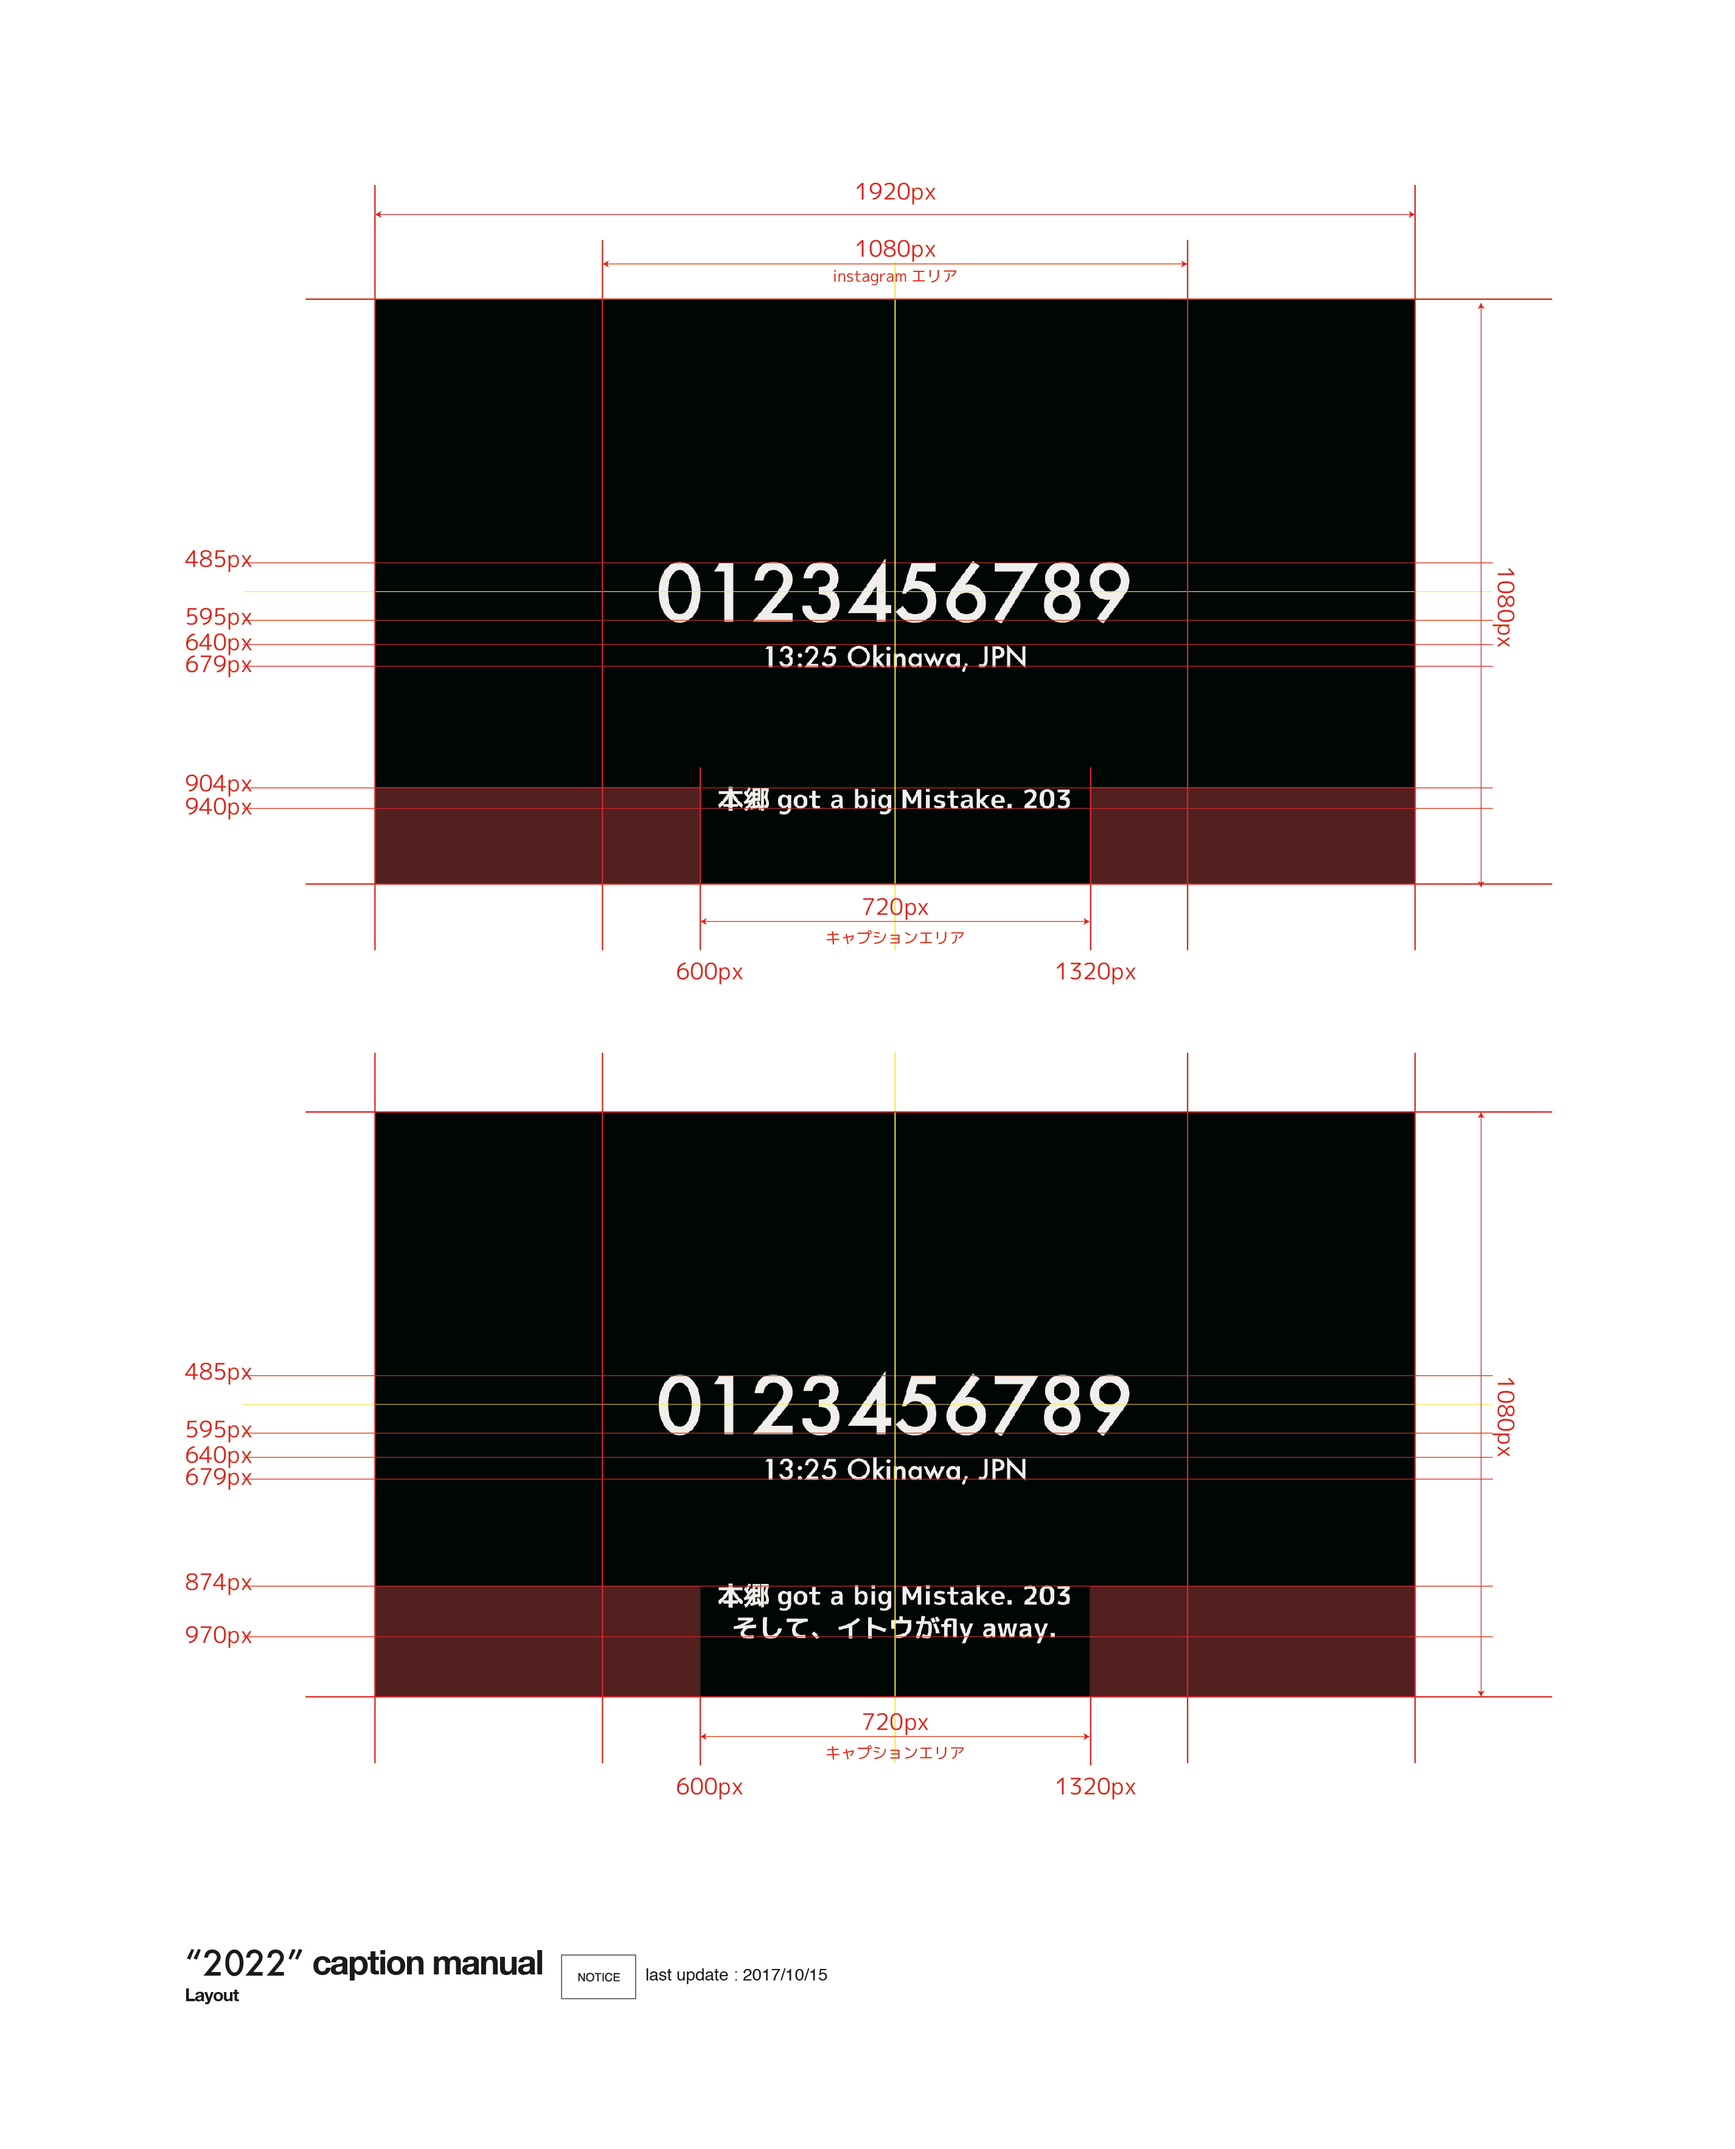
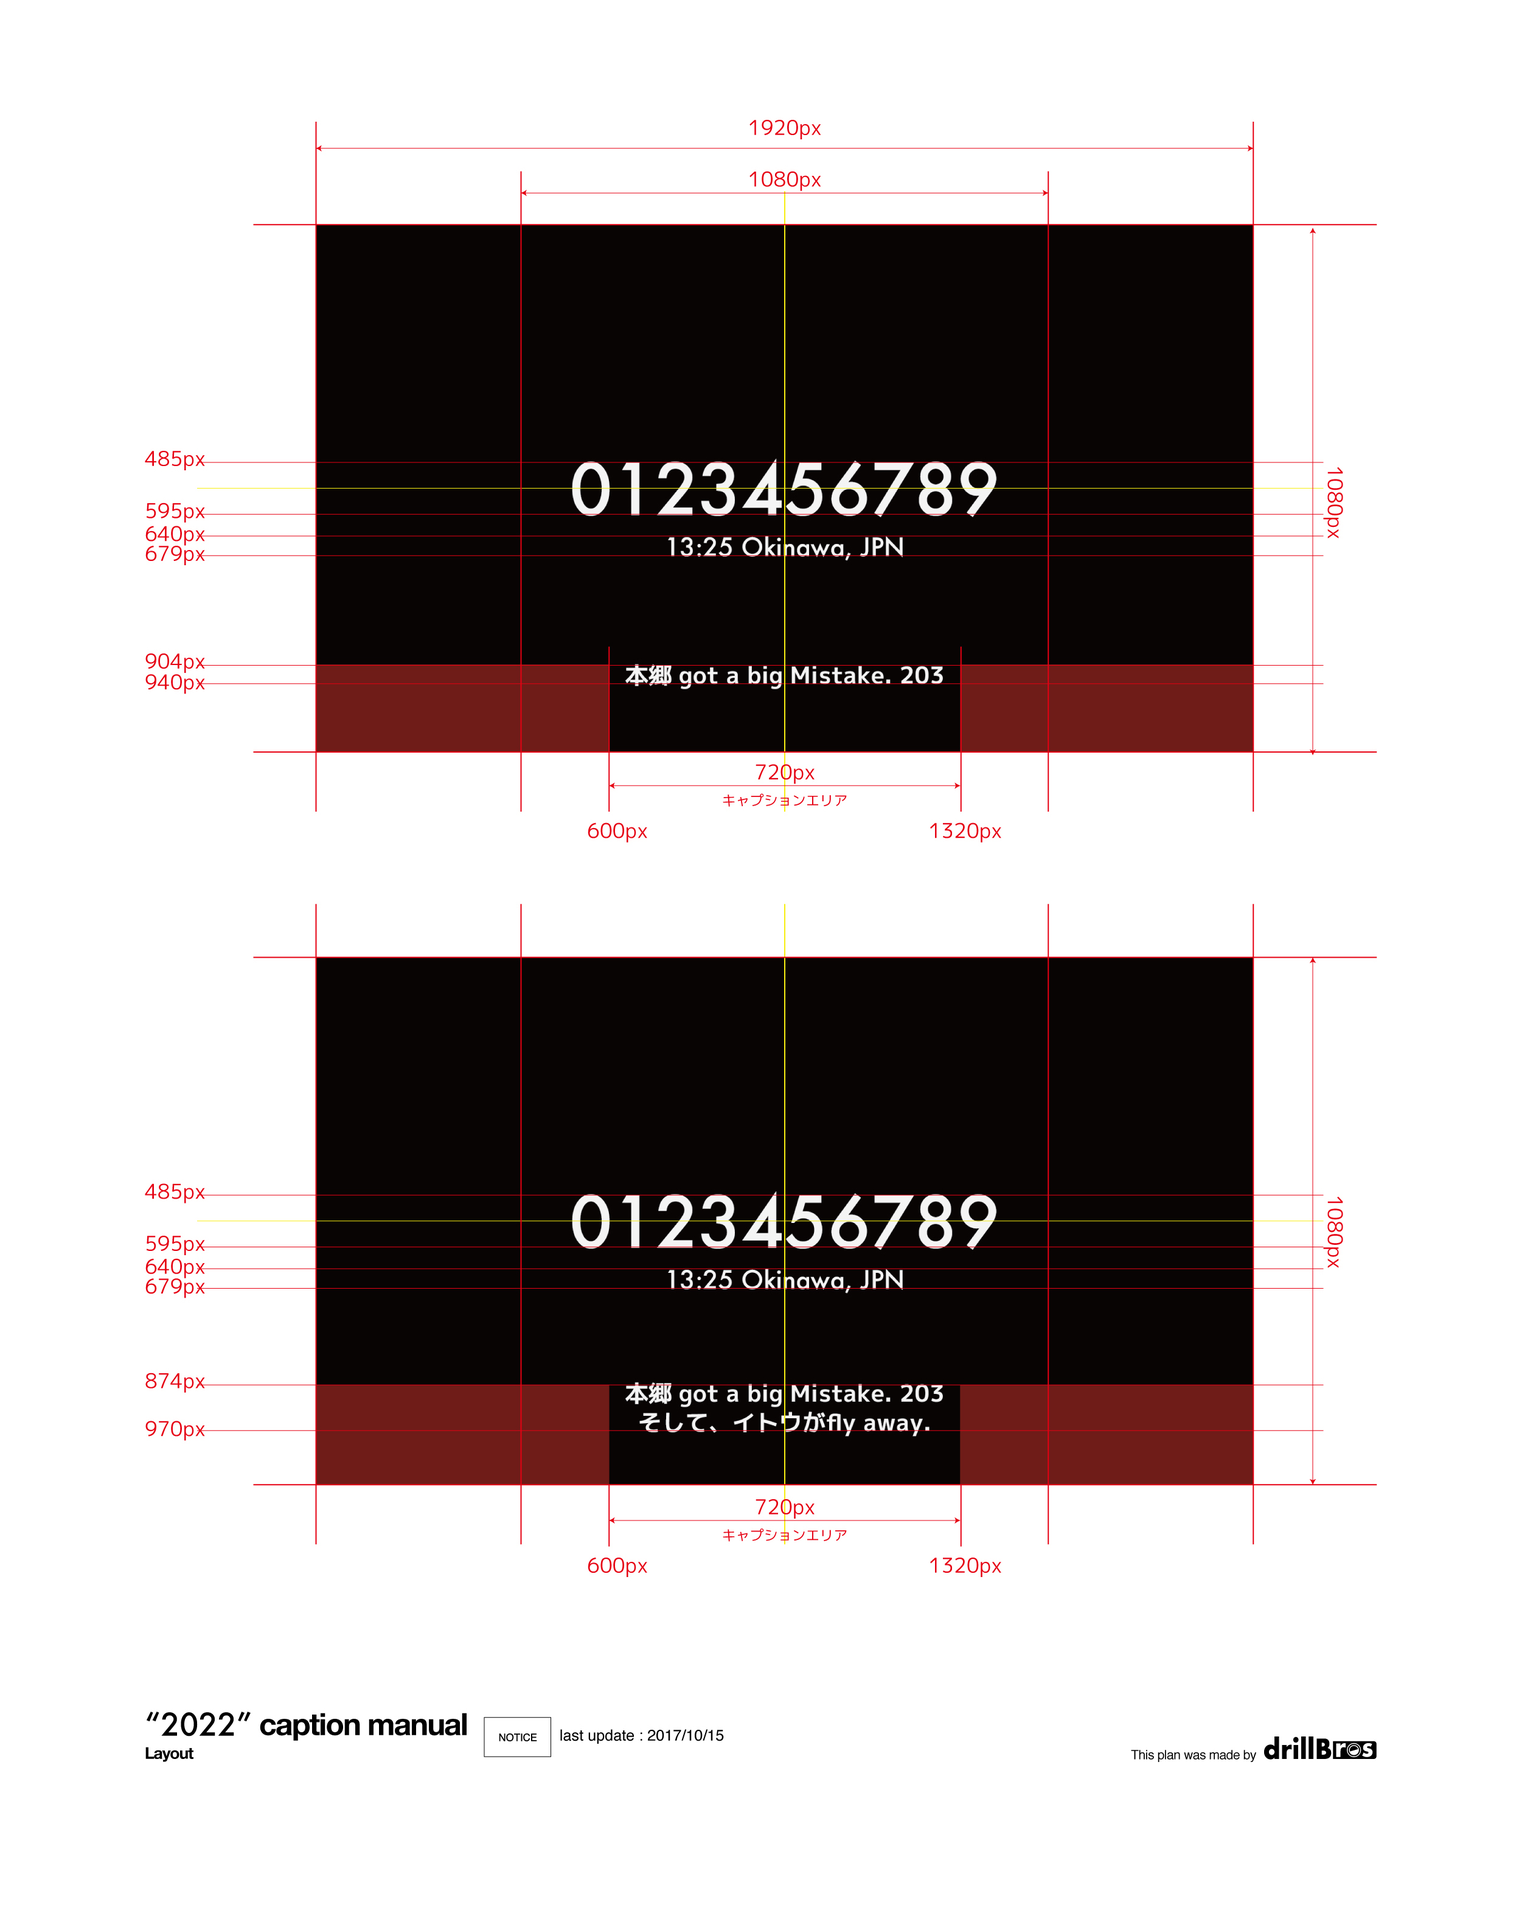
add images

diff --git a/caption_manual.md b/caption_manual.md
@@ -5,7 +5,7 @@ Drillbros(Takashi HONGO, Yuya ITO)
 
 ## キャプションを付加する映像
 * 映像フォーマット：1920x1080 60fps
-* 再生時間：13秒以上
+* 再生時間：10秒以上
 
 ---
 
@@ -17,13 +17,12 @@ Drillbros(Takashi HONGO, Yuya ITO)
 |:---|:---|:---|:---|:---|
 |日付|必須|英|YYYY.MM.DD 形式。一桁の月及び日の時は頭に0を追加すること|2022.08.31|
 |時間|任意|英|HH:MM 形式。  現地時間で 24 時間表記とする。1桁の場合は、頭に「0」を追加すること。|13:08|
-|場所|任意|英|「都市名　 国名」の順とする。 都市名、国名どちらか一方だけの表記でもよい。 国名は「[ISO 3166-1 alpha-3](https://ja.wikipedia.org/wiki/ISO_3166-1)」に準ずること。|Okinawa, JPN|
+|場所|任意|英|「都市名 国名」の順とする。 都市名、国名どちらか一方だけの表記でもよい。 国名は「[ISO 3166-1 alpha-3](https://ja.wikipedia.org/wiki/ISO_3166-1)」に準ずること。|Okinawa, JPN|
 |キャプション|任意|日英|原則1行。指定されたエリア内で収まらない場合は、2行までの表記できる|本郷、catch up.|
 
 時間と場所、どちらか一方だけを表記してもよい。  
 時間と場所の両方を表記する場合、間にはカンマと半角スペースをいれて区別できるようにすること。
 
----
 
 ## フォント情報
 
@@ -34,17 +33,29 @@ Drillbros(Takashi HONGO, Yuya ITO)
 |場所|Futura Medium|51px|--|
 |キャプション|M+1p bold|48px|60px|
 
-
 Futura: フーツラ(Futura)は、1923年にドイツのバウハウスにおいて非常勤講師として勤めたパウル・レナーによって発表されたラテン文字のサンセリフ体書体。"futura"とはラテン語で「未来」の意。（[Wikipedia](https://goo.gl/9T5cmh)より抜粋）
 
 M+1p／M+FONTS: M+FONTS(エムプラスフォンツ)は、森下浩司によってデザインされているゴシック体の日本語フォントである。フリーソフトウェアであり、さらに利用・改変・再配布についてほぼ制限の無いライセンスが適用されているため、このフォントをベースにカスタマイズを施した派生フォントが多数配布されている。([Wikipedia](https://ja.wikipedia.org/wiki/M%2B_FONTS)より抜粋) 　なお、M+1pはプロポーショナルフォント。  
 M+FONTS https://mplus-fonts.osdn.jp
 
+
+## レイアウト
+
+横位置をｘ，縦位置をyとする
+左上頂点を（0px,0px）、右下頂点（1920px,1080px）とする。
+キャプションはすべて中央揃えで配置すること。
+
+
+<img src=bin/layout.jpg width=100%>
+<img src=bin/style.jpg width=100%>
+<img src=bin/styleEx_bright.jpg width=100%>
+<img src=bin/styleEx_dark.jpg width=100%>
+
 ---
 
 ## キャプションを表示させるタイミング
 
-再生時間が20秒の映像を、例とする。
+以下は再生時間が20秒の映像を例とする。
 
 日付のみの場合
 
@@ -69,15 +80,12 @@ M+FONTS https://mplus-fonts.osdn.jp
 |00:00:18:30 (映像終了 1.5 秒前)|必須|--|日付のみ。 背景は黒。|
 |00:00:20:00|必須|--|再生終了／日付のみ。 背景は黒。|
 
----
-
-## レイアウト
-
-横位置をｘ，縦位置をyとする
-左上頂点を（0px,0px）、右下頂点（1920px,1080px）とする
-
-<img src=bin/layout.jpg width=100%>
+<img src=bin/timeline01.jpg width=100%>
+<img src=bin/timeline02.jpg width=100%>
 
 ---
 
-<img src=http://res.cloudinary.com/hrscywv4p/image/upload/c_limit,fl_lossy,h_9000,w_1200,f_auto,q_auto/v1/257892/320x320_cdxu9c.png width=320>
+
+
+
+以上
